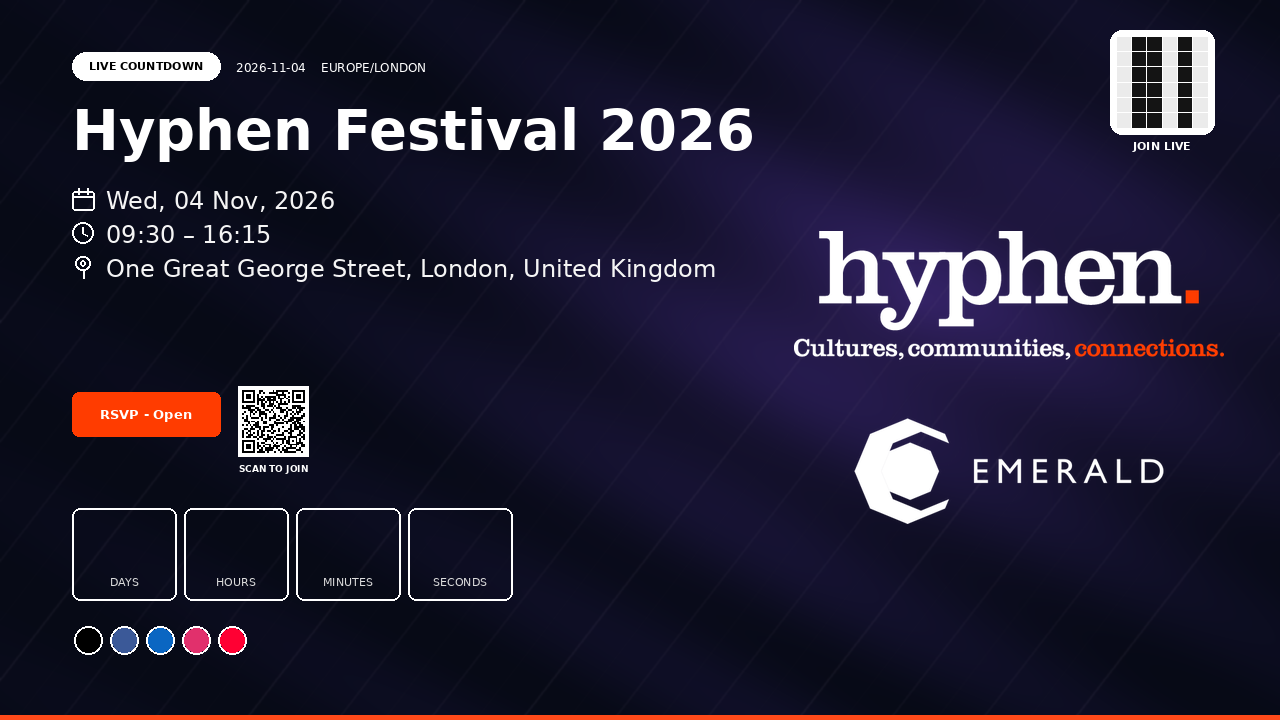
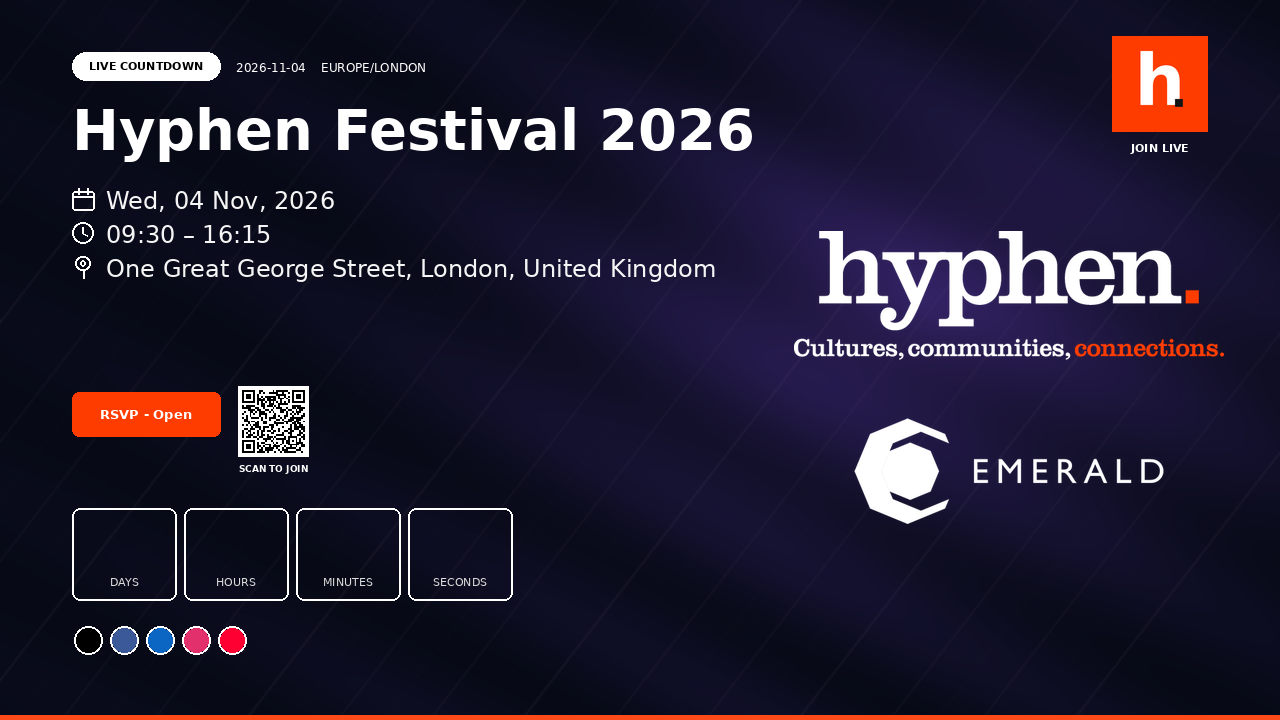
Enlarge the countdown numbers and use the orange h mark

Changed region(s): [[0.8438, 0.0306, 0.9688, 0.2139]]

diff --git a/components/countdown-stage.tsx b/components/countdown-stage.tsx
@@ -233,7 +233,7 @@ function UnitRow({
           className="flex flex-col items-center justify-center rounded-[0.5cqi] border border-white text-center"
           style={{ minHeight: `${g.boxMinHeight * size}cqi`, padding: `${g.padY * size}cqi ${g.padX * size}cqi` }}
         >
-          <div className="font-[Arial,Helvetica,sans-serif] leading-none font-bold tabular-nums" style={{ fontSize: `${g.digit * size * text}cqi` }}>
+          <div className="font-[Arial,Helvetica,sans-serif] leading-none font-black tabular-nums" style={{ fontSize: `${g.digit * size * text}cqi` }}>
             {unit.value}
           </div>
           <div
@@ -274,31 +274,10 @@ function clampChecker(value: number) {
   return Math.min(12, Math.max(4, Math.round(value)))
 }
 
-function RollingQr({ divisions, second, label }: { divisions: number; second: number; label: string }) {
-  const cells = divisions * divisions
-
+function RollingQr({ label }: { divisions: number; second: number; label: string }) {
   return (
     <div className="pointer-events-none absolute top-[4.6%] right-[4.4%] z-20 flex flex-col items-center">
-      <div
-        className="size-[8.4cqi] rounded-[1.05cqi] bg-white p-[0.62cqi] shadow-[0_0.6cqi_1.6cqi_rgba(0,0,0,0.28)]"
-        aria-hidden
-      >
-        <div
-          className="grid h-full w-full gap-[0.12cqi] rounded-[0.62cqi] bg-black p-[0.5cqi]"
-          style={{ gridTemplateColumns: `repeat(${divisions}, minmax(0, 1fr))` }}
-        >
-          {Array.from({ length: cells }, (_, index) => {
-            const lit = seeded(second, index) > 0.42
-            return (
-              <span
-                key={index}
-                className="rounded-[0.06cqi] bg-white transition-opacity duration-500"
-                style={{ opacity: lit ? 0.96 : 0.16 }}
-              />
-            )
-          })}
-        </div>
-      </div>
+      <img src="/brand/hyphen-mark.png" alt="" className="size-[8.4cqi] rounded-[0.7cqi] object-cover" draggable={false} />
       <span className="mt-[0.55cqi] font-[Arial,Helvetica,sans-serif] text-[0.85cqi] font-bold tracking-[0.14em] text-white uppercase">
         {label}
       </span>

diff --git a/lib/countdown-size.ts b/lib/countdown-size.ts
@@ -19,7 +19,7 @@ export function clampSize(value: unknown, range: SizeRange, fallback = 1): numbe
 
 /** All lengths are in cqi (1% of the stage width) at countdown size 1 and text size 1. */
 export const CLOCK_GEOMETRY = {
-  digit: 2.7,
+  digit: 3.1,
   label: 0.72,
   boxMinWidth: 8.6,
   boxMinHeight: 6.1,

diff --git a/scripts/generate-slate.py b/scripts/generate-slate.py
@@ -195,20 +195,11 @@ def make_slate(bg: Image.Image, logo: Image.Image, qr: Image.Image) -> Image.Ima
     ly = (H - logo_h) // 2 + 18
     img.paste(logo_fit, (lx, ly), logo_fit)
 
-    # The rolling QR only exists on the browser page. The encode gets the same frame, still.
-    frame = 92
-    fx, fy = W - 72 - frame, 36
-    rounded_rect(draw, (fx - 6, fy - 6, fx + frame + 6, fy + frame + 6), 12, fill=(255, 255, 255, 255))
-    cell = frame / 6
-    for row in range(6):
-        for col in range(6):
-            lit = ((row * 6 + col) * 17 + row * 3) % 5 > 1
-            draw.rectangle(
-                (fx + col * cell + 1, fy + row * cell + 1, fx + (col + 1) * cell - 1, fy + (row + 1) * cell - 1),
-                fill=(20, 20, 20, 255) if lit else (235, 235, 235, 255),
-            )
+    # The top-right mark is the orange Hyphen h, not a rolling QR. The encode cannot animate.
+    mark = Image.open(ASSETS / "hyphen-mark.png").convert("RGBA").resize((96, 96), Image.Resampling.LANCZOS)
+    img.paste(mark, (W - 72 - 96, 36), mark)
     join = ImageFont.truetype(str(BOLD), 11)
-    draw.text((fx + frame / 2, fy + frame + 18), "JOIN LIVE", font=join, fill=(255, 255, 255, 230), anchor="mm")
+    draw.text((W - 72 - 48, 36 + 96 + 16), "JOIN LIVE", font=join, fill=(255, 255, 255, 230), anchor="mm")
     return img
 
 
